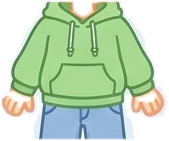
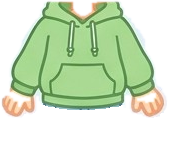
Oblékání: čisté výřezy, pod dlouhými kalhotami se schovají kraťasy, mikina bez kousku džín

Changed region(s): [[0.2071, 0.7376, 0.7988, 0.9929], [0.9467, 0.7943, 0.9763, 0.8227]]

diff --git a/src/app/prvouka/PrvoukaObleceni.tsx b/src/app/prvouka/PrvoukaObleceni.tsx
@@ -148,7 +148,7 @@ export function PrvoukaObleceni({ settings = {} }: { settings?: Record<string, a
             </div>
           ) : null}
           <div className="relative mt-16 mb-4" style={{ width: 'min(52%, 210px)', aspectRatio: `${SAM_W} / ${SAM_H}` }}>
-            <img src={`${ART}/sam.png`} alt="Sam" className="absolute" style={{ left: `${(15 / SAM_W) * 100}%`, top: `${(10 / SAM_H) * 100}%`, width: `${(174 / SAM_W) * 100}%`, height: `${(382 / SAM_H) * 100}%` }} draggable={false} />
+            <img src={`${ART}/${outfit.dolu && outfit.dolu !== 'kratasy' ? `sam-${outfit.dolu}` : 'sam'}.png`} alt="Sam" className="absolute" style={{ left: `${(15 / SAM_W) * 100}%`, top: `${(10 / SAM_H) * 100}%`, width: `${(174 / SAM_W) * 100}%`, height: `${(382 / SAM_H) * 100}%` }} draggable={false} />
             {worn.flatMap((it) => it.pieces.map((p, i) => {
               const [x0, y0, x1, y1] = p.box;
               return (
